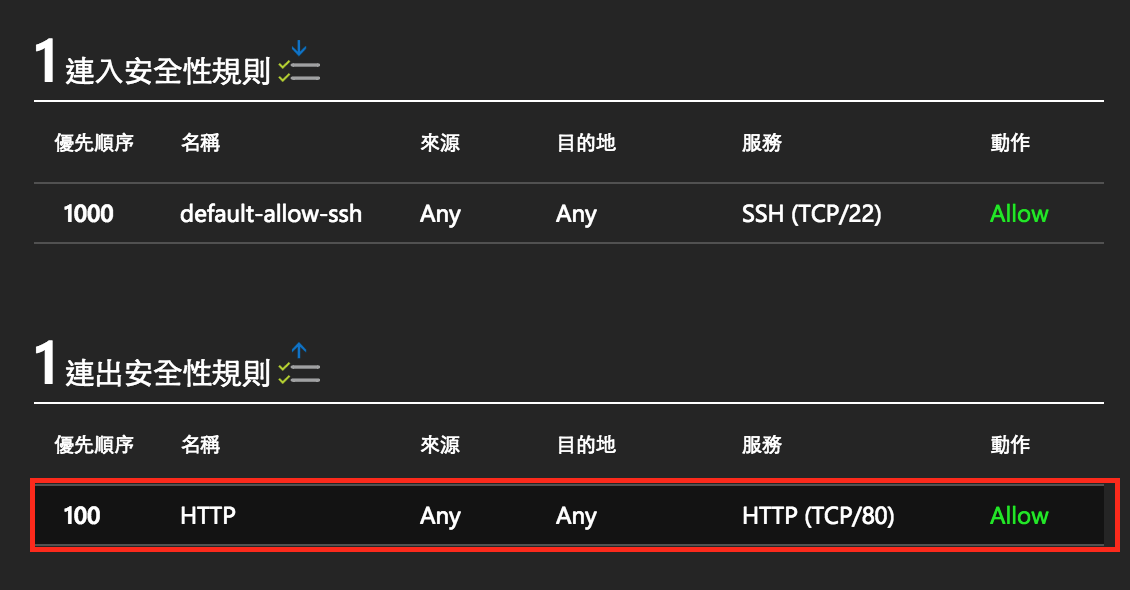
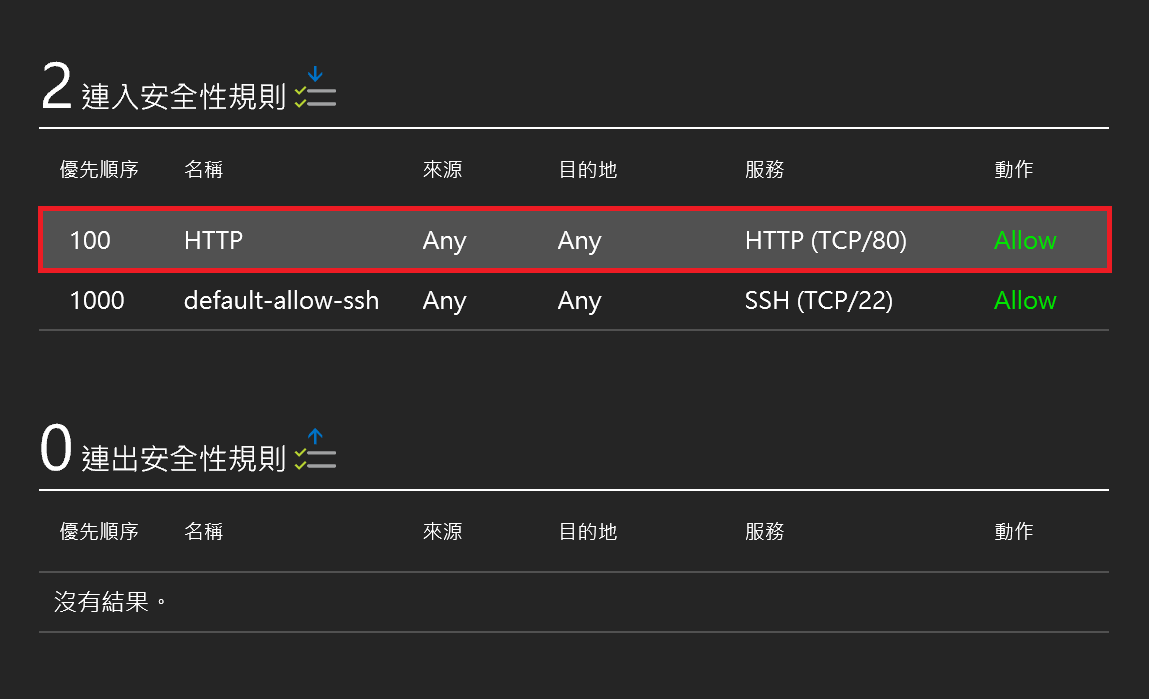
update ch3 port setting -- Azure CLI

diff --git a/ch03/port-setting.md b/ch03/port-setting.md
@@ -2,7 +2,7 @@
 
 _作者: James Wang @zxcand_
 
-這裡介紹如何設定虛擬機器的連接埠 (port)，方便管理虛擬機器連入聯出的規則，或是讓其他電腦可以連結到虛擬機器上來架設的網頁服務。
+介紹如何設定虛擬機器的連接埠 (port)，管理虛擬機器連入連出的規則，限制虛擬機器對外網路或是讓其他電腦可以連結到虛擬機器上來架設的服務。
 
 ## 操作步驟 - 透過Web管理介面
 
@@ -10,13 +10,13 @@ _作者: James Wang @zxcand_
 
 	![資源群組](images/port_ResourceGroup.png)
 
-2. _網路安全性群組_ 的管理面板可以看到連入/連出安全性規則，剛建立好的虛擬機器通常只會開放 SSH 用的 port 22，點選設定 → _連出安全性規則(Outbound)_ → 新增。
+2. _網路安全性群組_ 的管理面板可以看到連入/連出安全性規則，剛建立好的虛擬機器預設只開放 SSH 用的 port 22，點選設定 → _連出安全性規則(Outbound)_ → 新增。
 
 3. 接著設定安全性規則基本資料，這邊以新增 HTTP(port 80) 連線為例。
 
  * **名稱** 規則的名稱	，
 
- * **優先順序** 100到4096間的數字，數字越小優先順序越高/規則約先被採用，通常會在優先順序中保留間距，方便之後新的規則加入。
+ * **優先順序** 100到4096間的數字，數字越小優先順序越高/規則越優先被採用，通常會在優先順序中保留間距，方便之後新的規則加入。
 
  * **目的地** 選擇特定的目的地 IP，可以是不選擇(Any)、CIDR 定義目的地IP範圍，或是標籤選擇目的地(Internet、Virtual Network、LoadBalancer)
 
@@ -28,7 +28,7 @@ _作者: James Wang @zxcand_
 
  * **動作** 允許或是拒絕連線
 
- 	![新增安全性規則](images/port_NewOutboundRule.png)
+ 	![新增安全性規則](images/port_NewInboundRule.png)
 
  4. 回到 _網路安全性群組_ 概觀可以看到新增的安全性規則。
 
@@ -36,9 +36,68 @@ _作者: James Wang @zxcand_
 
 ## 操作步驟 - 透過Azure CLI
 
-T.B.A.
+* **Azure XPlat CLI (0.x)**
+	
+	```
+	#列出網路安全性群組
+	azure network nsg list [resource-group]
 
+	#列出網路安全性群組下的安全性規則
+	azure network nsg rule list <resource-group> <nsg-name>
+	
+	#新增安全性群組
+	azure network nsg create <resource-group> <name> <location>
+
+	#新增安全性規則於安全性群組
+	azure network nsg rule create <resource-group> <nsg-name> <name> <priority>
+	  --protocol [*, Tcp, Udp]
+	  --source-port-range
+	  --destination-port-range
+	  --access [Allow, Deny]
+	  --direction  [Inbound, Outbound]
+	```
+	
+	以新增HTTP port 80連入規則為例:
+	```
+	azure network nsg list
+
+	azure network nsg rule list AzureRecipe AzureRecipe-nsg
+
+	azure network nsg rule create AzureRecipe AzureRecipe-nsg HTTP 100
+	  --protocol Tcp --destination-port-range 80 --access Allow --direction Inbound
+	
+	azure network nsg rule list AzureRecipe AzureRecipe-nsg
+	```
+
+	執行結果如下:
+
+	![CLI 執行結果](images/port_CLI.png)
+
+* **Azure CLI (new)**
+	```
+	#列出網路安全性群組
+	az network nsg list [resource-group]
+
+	#列出網路安全性群組下的安全性規則
+	az network nsg create --resource-group myResourceGroup --location westus \
+    --name myNetworkSecurityGroup
+	
+	#新增安全性規則
+	az network nsg rule create --resource-group myResourceGroup \
+    --nsg-name myNetworkSecurityGroup --name myNetworkSecurityGroupRule \
+    --protocol tcp --direction inbound --priority 1000 \
+    --source-address-prefix '*' --source-port-range '*' \
+    --destination-address-prefix '*' --destination-port-range 80 --access allow
+
+	#更新網路介面
+	az network nic update --resource-group myResourceGroup --name myNic \
+    --network-security-group myNetworkSecurityGroup
+	```
+	
 ## 參考資源
 
-- https://docs.microsoft.com/zh-tw/azure/virtual-network/virtual-networks-nsg
+- [Azure 網路安全性群組](https://docs.microsoft.com/zh-tw/azure/virtual-network/virtual-networks-nsg)
 
+- [Azure CLI 開啟連接埠及端點快速命令](https://docs.microsoft.com/zh-tw/azure/virtual-machines/virtual-machines-linux-nsg-quickstart)
+
+- [從範本建立網路安全性群組](https://docs.microsoft.com/zh-tw/azure/virtual-network/virtual-networks-create-nsg-arm-template)
